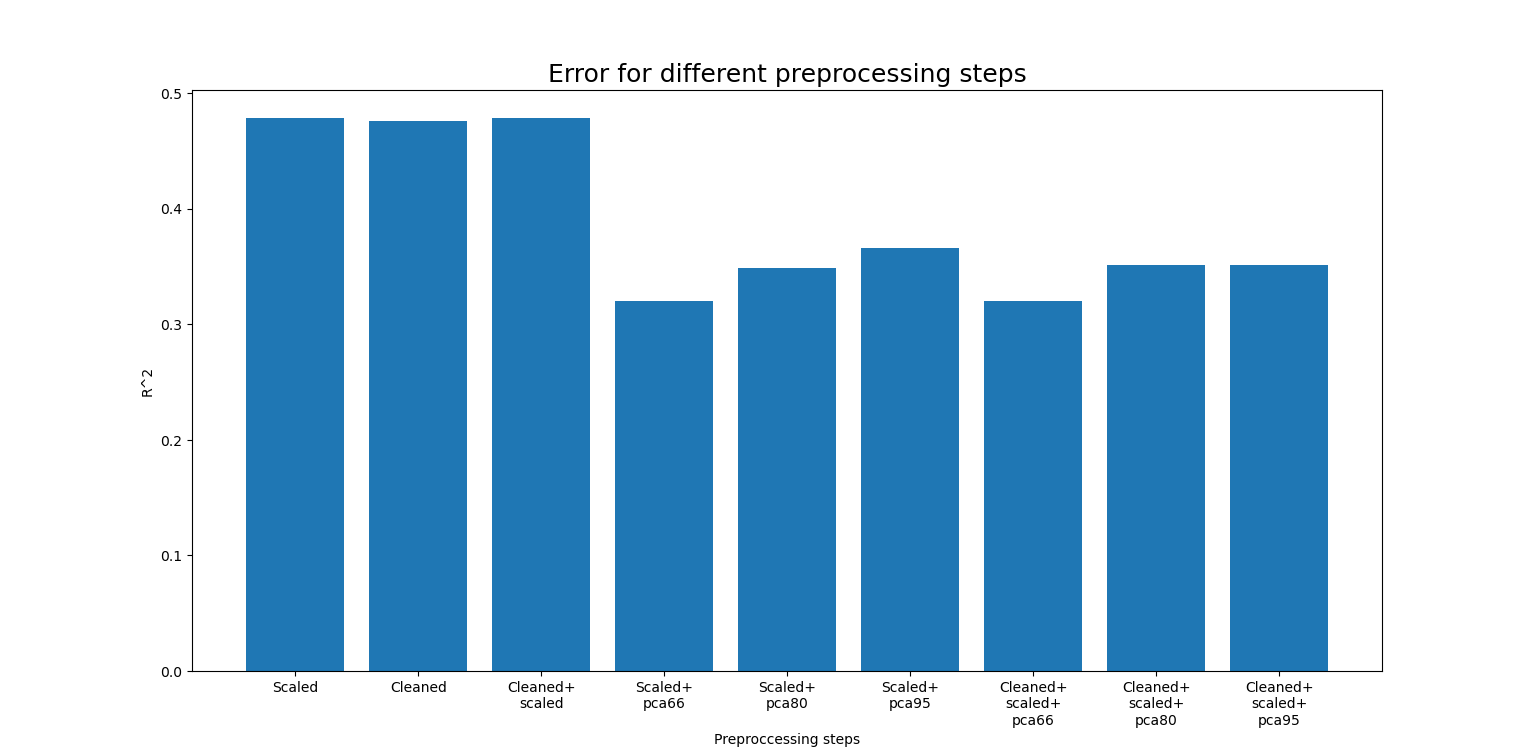
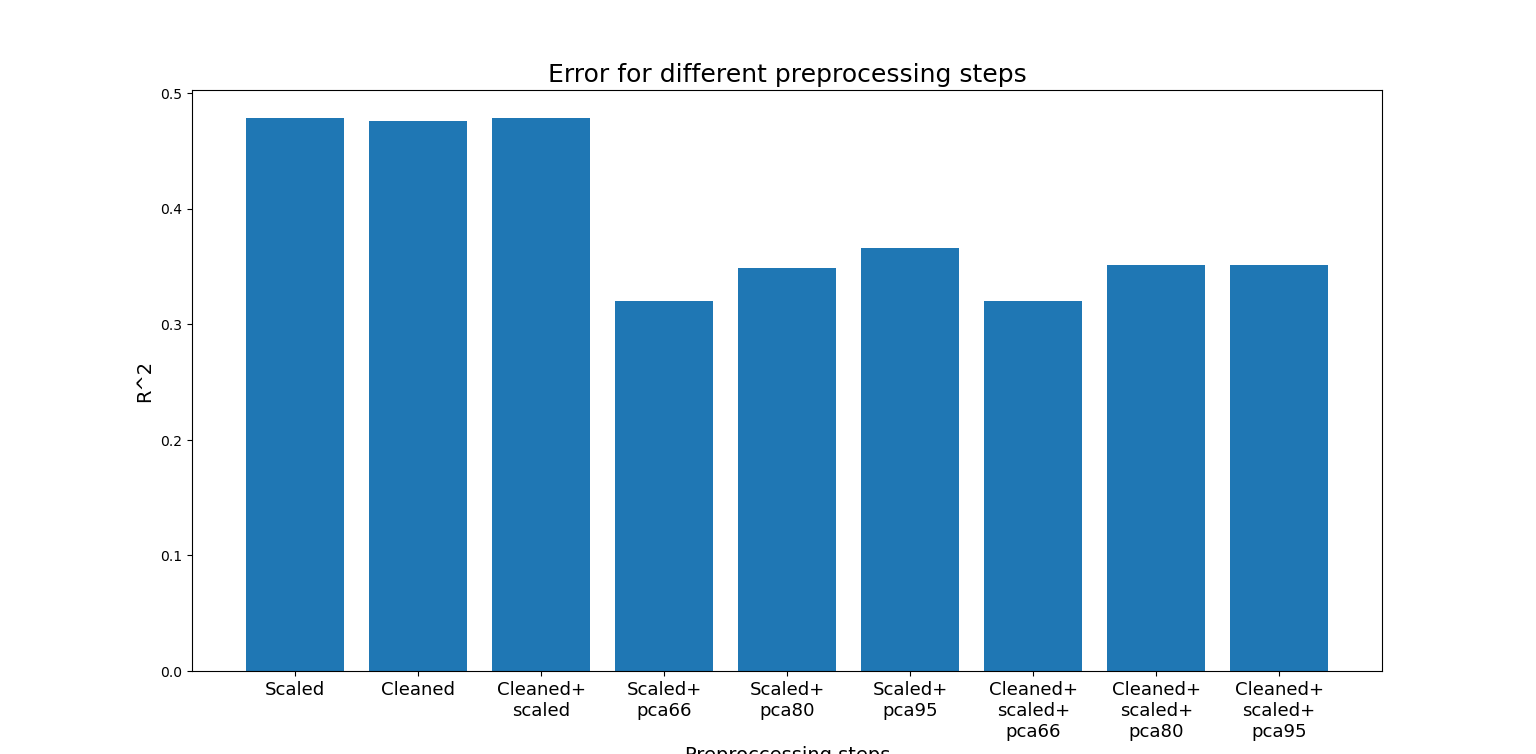
font size preprocessing graph

diff --git a/src/develop_code.py b/src/develop_code.py
@@ -406,9 +406,10 @@ def prepping_graph():
     data={'Scaled':0.4785018435920147,'Cleaned':0.47583234137174646,'Cleaned+\nscaled': 0.4784814897780814, 
           'Scaled+\npca66':0.3201183220520327, 'Scaled+\npca80':0.34864618071310116, 'Scaled+\npca95': 0.365840455772483,
           'Cleaned+\nscaled+\npca66':0.320365179686796, 'Cleaned+\nscaled+\npca80':0.3511814161572563, 'Cleaned+\nscaled+\npca95':0.3511814161572563}
-    plt.xlabel('Preproccessing steps')
-    plt.ylabel('R^2')
+    plt.xlabel('Preproccessing steps',fontsize=14)
+    plt.ylabel('R^2',fontsize=14)
     plt.title('Error for different preprocessing steps',fontsize=18)
+    plt.xticks(fontsize=13)
     plt.bar(list(data.keys()), list(data.values()))
     plt.show()
 prepping_graph()
